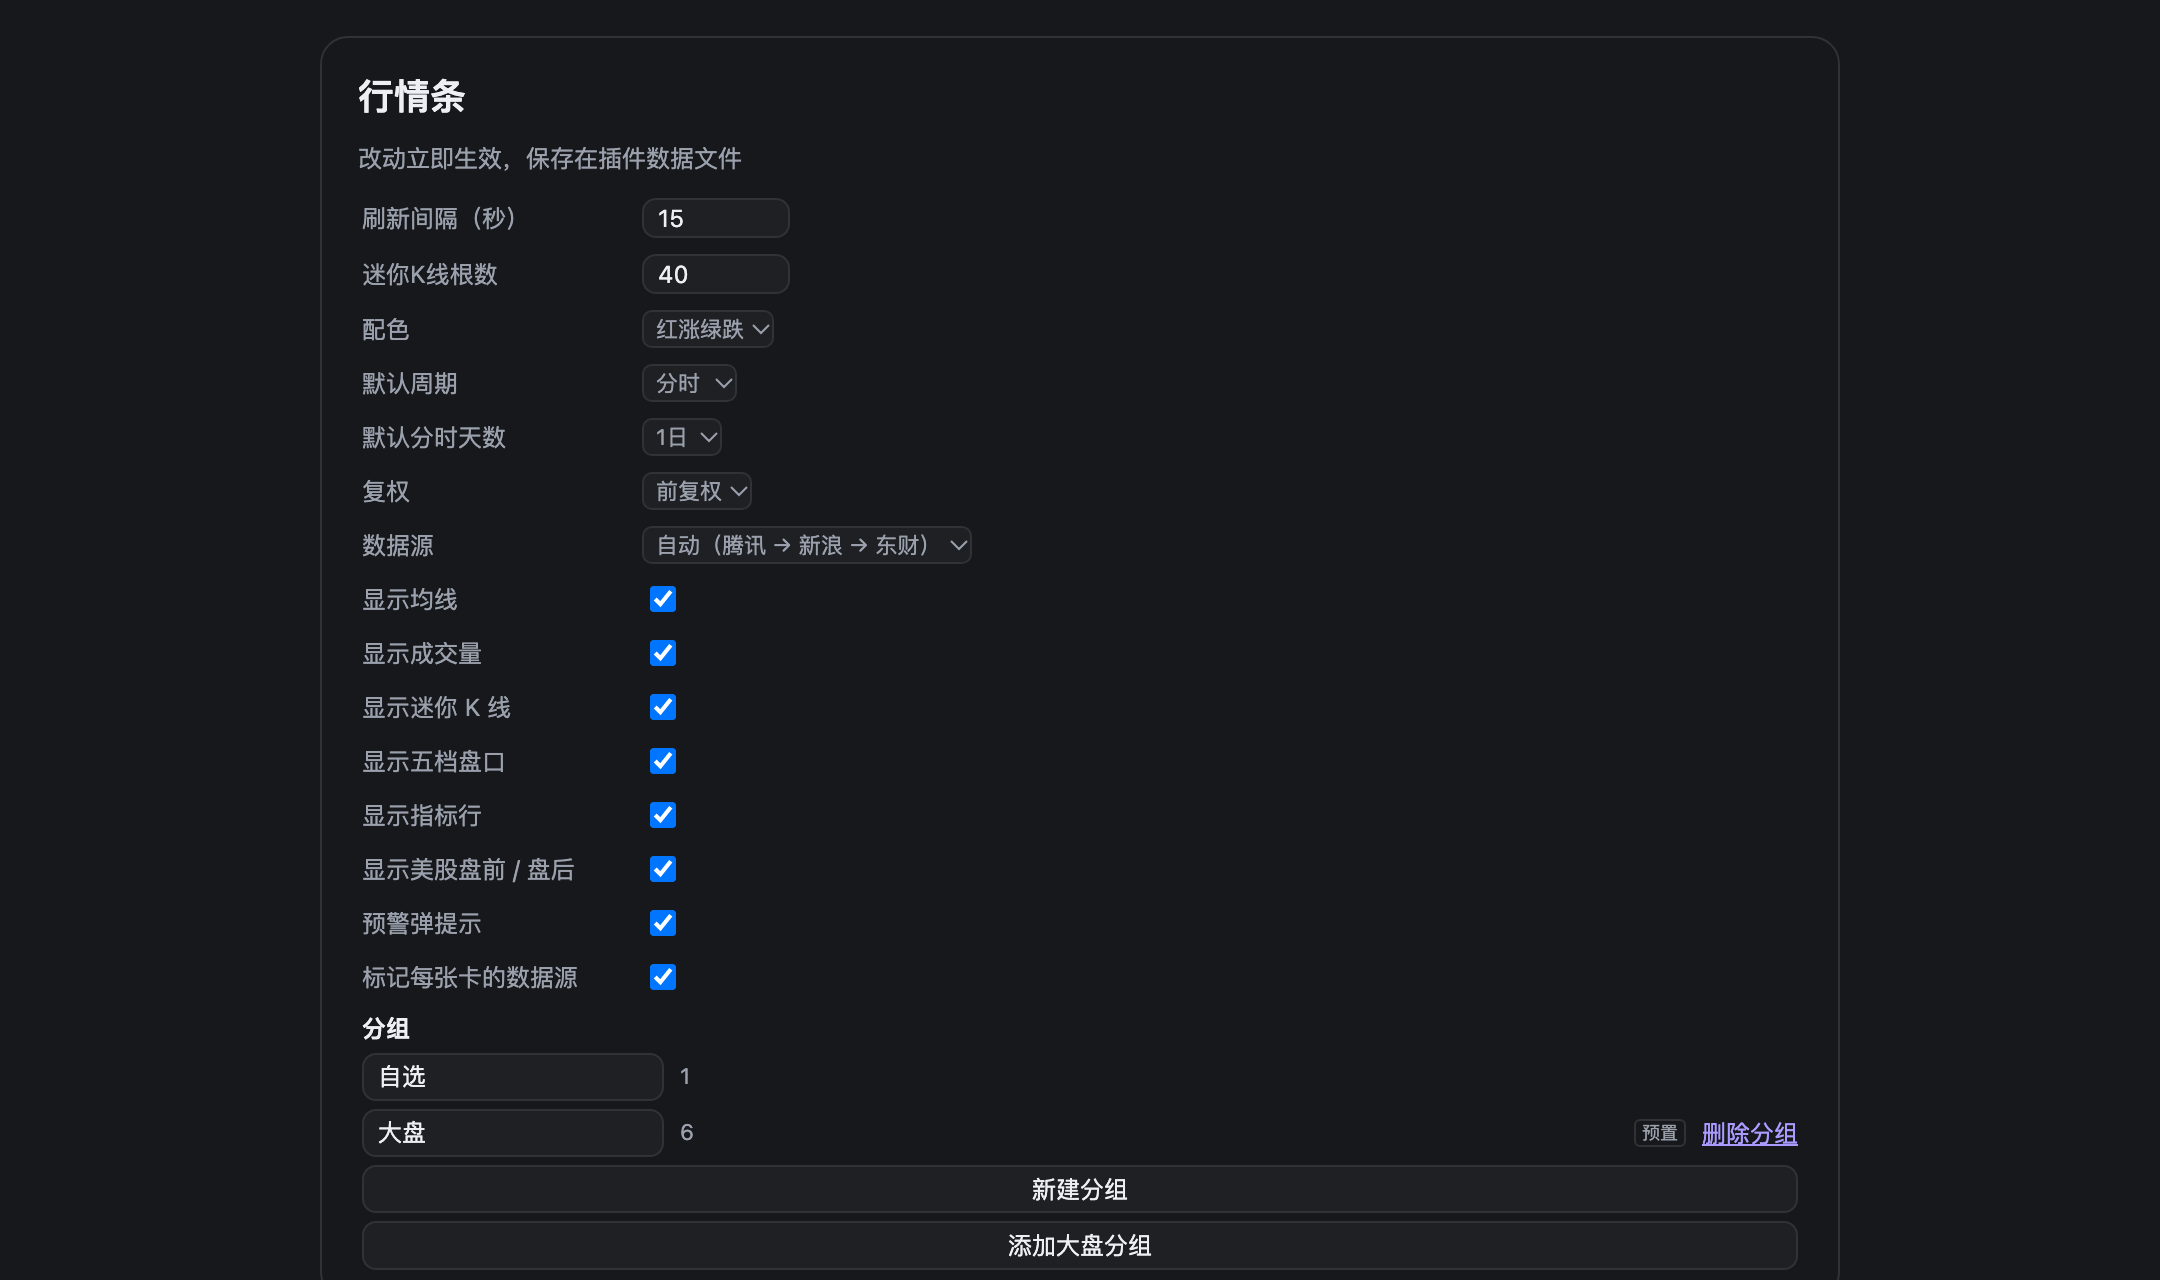
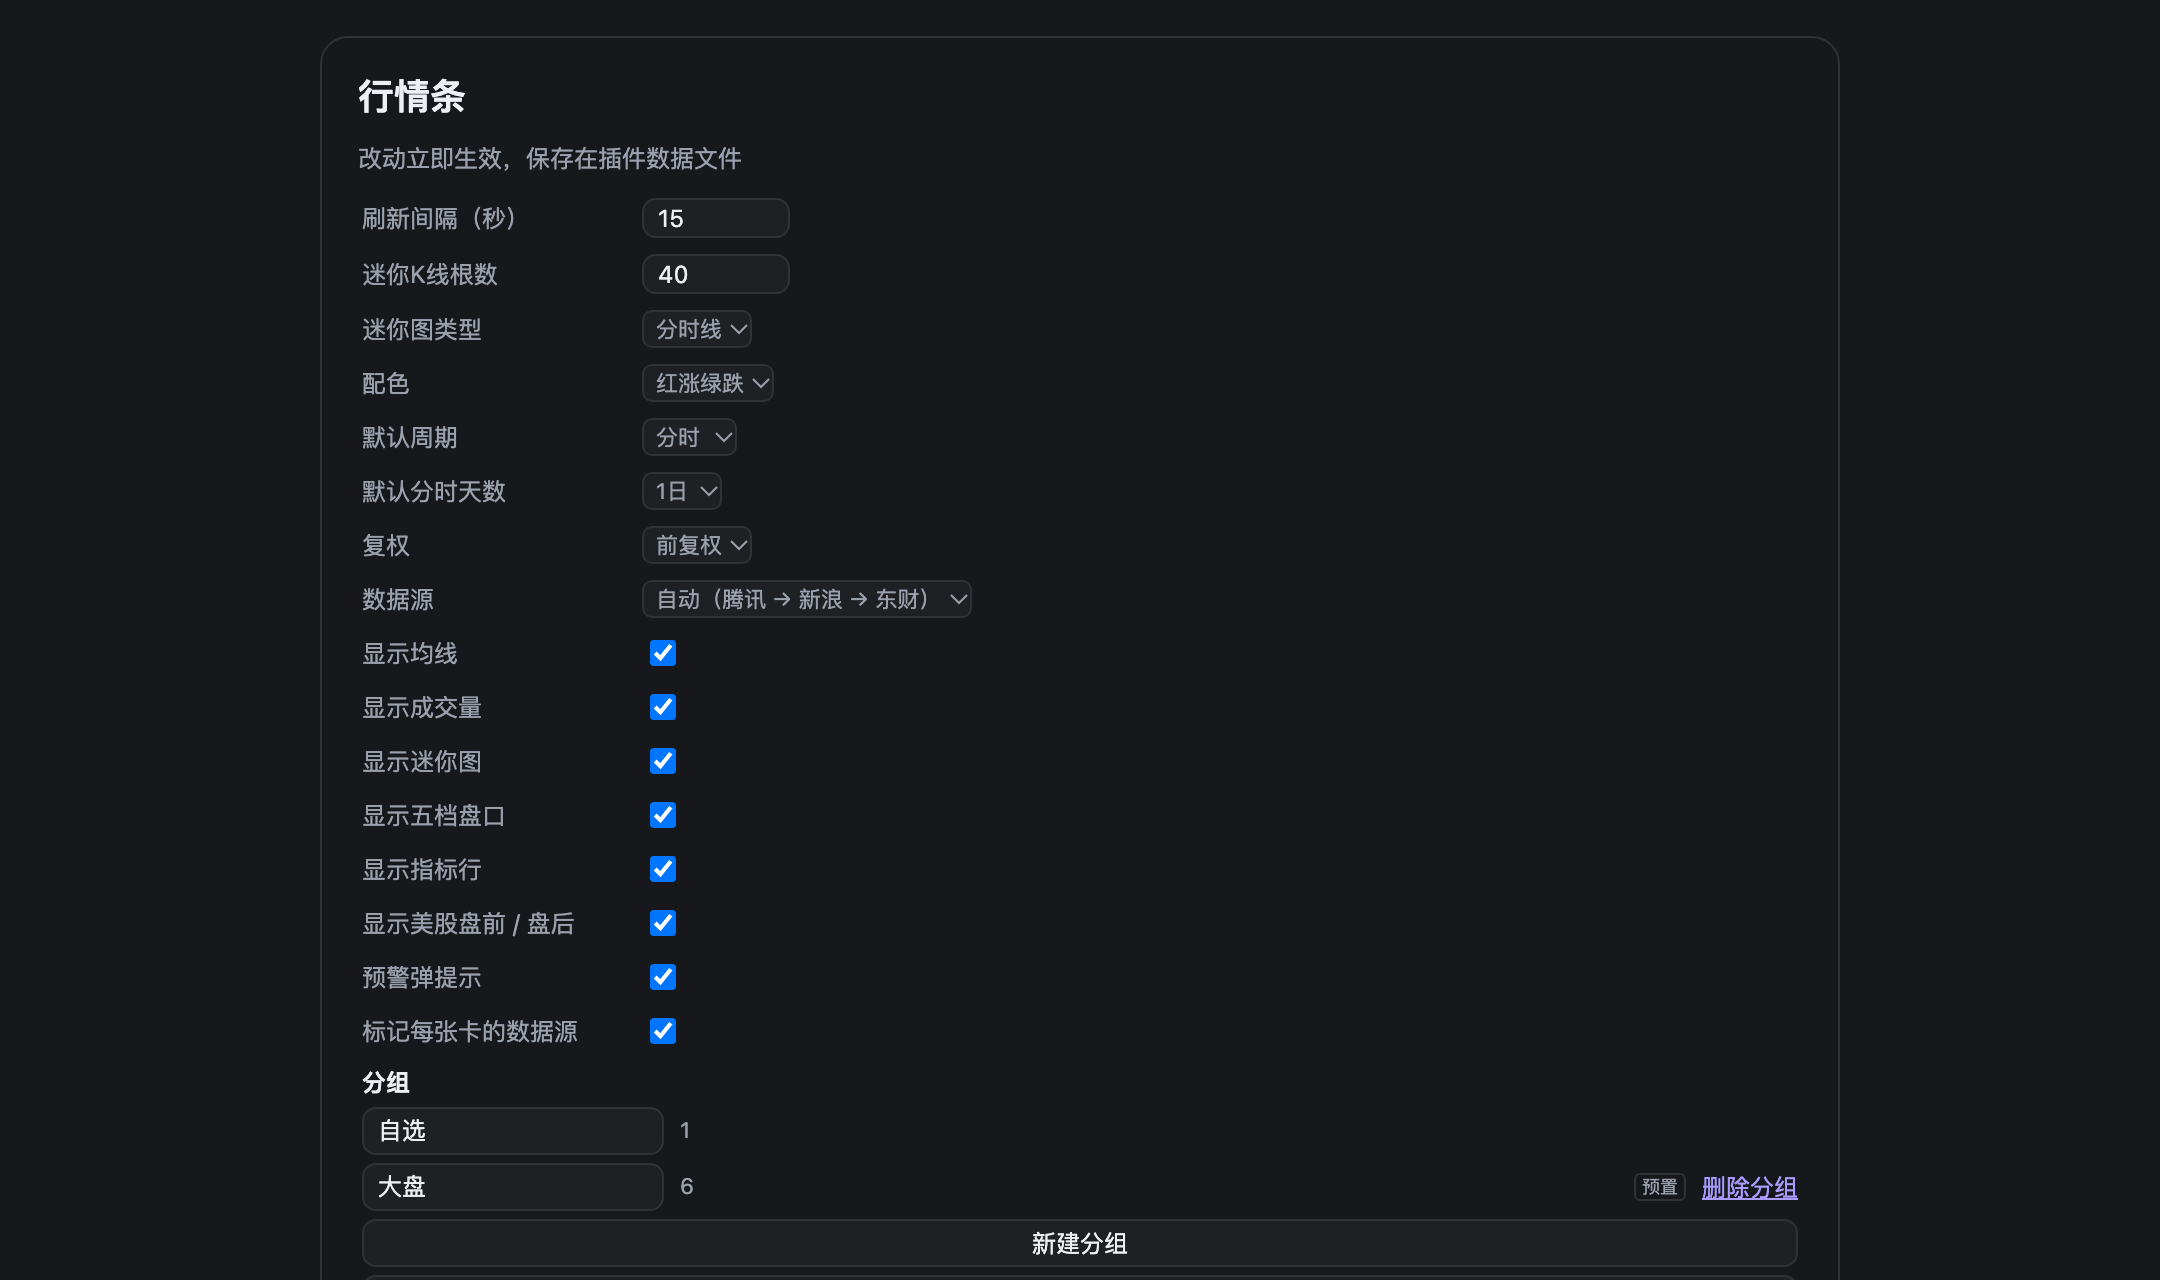
fix(client): replace the boxy mini-chart switch with one pill (1.7.2)
Four bordered boxes were too heavy for the strip header. The switch is now a
single pill with a native select and a chevron (`分时线 ▾`), matching the group
pills and the icon row; the current value is the selected option, the tooltip
names it, and the control still hides with the mini chart.

- The settings row remains for discoverability.
- Preview screenshots suppress the transient tick flash so the README captures
  a steady state, and were regenerated with the pill.
- Test: the header select sends the preference and refetches with
  `type=intraday`. 79 tests.

Local commit only; not pushed.

diff --git a/client.js b/client.js
@@ -16,7 +16,7 @@ window.__ModuleLoader__.load({
     const { useCallback, useEffect, useMemo, useRef, useState } = React
 
     const NS = 'stockTicker'
-    const BUILD = 'v1.7.1'
+    const BUILD = 'v1.7.2'
     const ENDPOINT = '/dsh-stock-ticker'
     const COLLAPSE_KEY = 'dsh-stock-ticker:collapsed'
     const STYLE_ID = 'stock-ticker'
@@ -743,38 +743,42 @@ window.__ModuleLoader__.load({
   outline: none;
   border-color: var(--dsw-alias-brand-primary);
 }
-.dshst-miniTypes {
+.dshst-miniType {
+  position: relative;
   display: inline-flex;
   align-items: center;
   flex: 0 0 auto;
-  border: 1px solid var(--dsw-alias-border-l2);
-  border-radius: 6px;
-  overflow: hidden;
+  padding: 0 6px;
+  border: 1px solid var(--dsw-alias-border-l1);
+  border-radius: 999px;
+  color: var(--dsw-alias-label-secondary);
+  font-size: 11px;
+  line-height: 17px;
 }
-.dshst-miniTypes button {
+.dshst-miniType select {
+  appearance: none;
+  -webkit-appearance: none;
   border: 0;
   background: transparent;
-  color: var(--dsw-alias-label-secondary);
+  color: inherit;
   font: inherit;
-  font-size: 10px;
-  line-height: 18px;
-  padding: 0 5px;
+  line-height: 17px;
+  padding: 0 13px 0 0;
   cursor: pointer;
+  outline: none;
 }
-.dshst-miniTypes button + button {
-  border-left: 1px solid var(--dsw-alias-border-l1);
+.dshst-miniType::after {
+  content: "▾";
+  position: absolute;
+  right: 5px;
+  font-size: 9px;
+  opacity: 0.7;
+  pointer-events: none;
 }
-.dshst-miniTypes button:hover {
+.dshst-miniType:hover,
+.dshst-miniType:focus-within {
+  border-color: var(--dsw-alias-brand-primary);
   color: var(--dsw-alias-label-primary);
-}
-.dshst-miniTypes button[data-active="true"] {
-  background: var(--dsw-alias-interactive-bg-hover);
-  color: var(--dsw-alias-label-primary);
-  font-weight: 600;
-}
-.dshst-miniTypes button:focus-visible {
-  outline: 2px solid var(--dsw-alias-brand-primary);
-  outline-offset: -2px;
 }
 .dshst-icon:focus-visible,
 .dshst-card:focus-visible,
@@ -3555,27 +3559,20 @@ window.__ModuleLoader__.load({
             ? null
             : h(
                 'span',
-                { className: 'dshst-miniTypes', role: 'group', 'aria-label': t('miniChartType') },
-                ...(
-                  [
+                { className: 'dshst-miniType', title: t('miniChartType') },
+                h(
+                  'select',
+                  {
+                    'aria-label': t('miniChartType'),
+                    value: prefs.miniChartType ?? 'day',
+                    onChange: (event) => savePrefs({ miniChartType: event.target.value }),
+                  },
+                  ...[
                     ['intraday', t('miniIntraday')],
                     ['day', t('miniDay')],
                     ['week', t('miniWeek')],
                     ['month', t('miniMonth')],
-                  ]
-                ).map(([value, label]) =>
-                  h(
-                    'button',
-                    {
-                      key: value,
-                      type: 'button',
-                      title: label,
-                      'aria-pressed': (prefs.miniChartType ?? 'day') === value ? 'true' : 'false',
-                      'data-active': (prefs.miniChartType ?? 'day') === value ? 'true' : 'false',
-                      onClick: () => savePrefs({ miniChartType: value }),
-                    },
-                    label,
-                  ),
+                  ].map(([value, label]) => h('option', { key: value, value }, label)),
                 ),
               ),
           h(

diff --git a/CHANGELOG.md b/CHANGELOG.md
@@ -360,3 +360,12 @@ Settings discoverability and the options the strip was missing.
   the settings row remains for discoverability.
 - Tests: clicking the header switch posts the preference and refetches the cards
   with `type=intraday`. 79 tests.
+
+## 1.7.2 — 2026-11-13
+
+- The header mini-chart switch was four separate bordered boxes, too heavy for
+  the strip. It is now one compact pill with a native select and a chevron
+  (`分时线 ▾`), matching the group pills and the icon row; the active value is
+  the selected option, the tooltip names it, and it disappears with the mini
+  chart. The settings row is unchanged.
+- Screenshots refreshed for the header/detail/settings surfaces.

diff --git a/README.md b/README.md
@@ -2,7 +2,7 @@
 
 **中文** · [English](README.en.md)
 
-![version](https://img.shields.io/badge/version-1.7.1-blue)
+![version](https://img.shields.io/badge/version-1.7.2-blue)
 ![license](https://img.shields.io/badge/license-MIT-green)
 ![dsh](https://img.shields.io/badge/DSH-0.2.x-6f5bd6)
 ![data](https://img.shields.io/badge/data-Tencent%20%7C%20Sina%20%7C%20Eastmoney-orange)

diff --git a/README.en.md b/README.en.md
@@ -2,7 +2,7 @@
 
 [中文](README.md) · **English**
 
-![version](https://img.shields.io/badge/version-1.7.1-blue)
+![version](https://img.shields.io/badge/version-1.7.2-blue)
 ![license](https://img.shields.io/badge/license-MIT-green)
 ![dsh](https://img.shields.io/badge/DSH-0.2.x-6f5bd6)
 ![data](https://img.shields.io/badge/data-Tencent%20%7C%20Sina%20%7C%20Eastmoney-orange)
